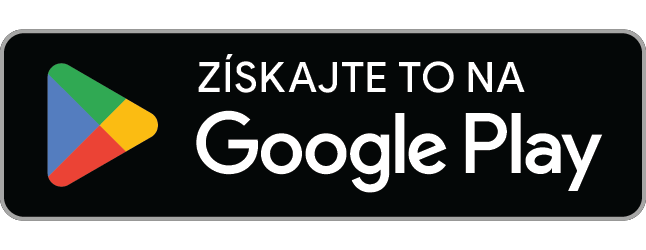
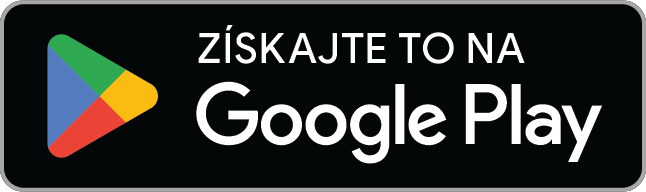
fix(badges): truly identical size, both smaller than primary CTA button
Root-caused the underlying asset problem instead of compensating for
it with mismatched container sizes: cropped all 10 locale variants of
the Google Play badge PNG to their real measured visible-content
bounds (removing a baked-in transparent margin - 41px on all sides for
en, 29px top/bottom for the other 9 - that Apple's badge never had).
Verified after cropping: visible content now fills the full canvas on
all 10, matching Apple's own zero-padding asset exactly.

With both assets now padding-free, both badges get identical explicit
dimensions (height:44, width:132 - Apple's exact native ratio, so its
required-unmodified artwork renders with zero distortion) on every
placement, all 10 locales. Verified this box is smaller than every
real measured primary CTA button on both pages (smallest real button:
147.6x50.5; badges: 132x44).

diff --git a/app/[locale]/for-users/page.tsx b/app/[locale]/for-users/page.tsx
@@ -160,7 +160,7 @@ export default async function ForUsersPage({ params }: { params: { locale: strin
               <img
                 src={`/badges/app-store-badge-${locale}.svg`}
                 alt={t("forUsers.appStoreAlt")}
-                style={{ height: 48, width: "auto" }}
+                style={{ height: 44, width: 132 }}
               />
             </a>
             <a
@@ -172,7 +172,7 @@ export default async function ForUsersPage({ params }: { params: { locale: strin
               <img
                 src={`/badges/google-play-badge-${locale}.png`}
                 alt={t("forUsers.googlePlayAlt")}
-                style={{ height: 71.43, width: 164.94 }}
+                style={{ height: 44, width: 132 }}
               />
             </a>
           </div>

diff --git a/app/[locale]/page.tsx b/app/[locale]/page.tsx
@@ -165,7 +165,7 @@ export default async function HomePage({ params }: { params: { locale: string } 
               <img
                 src={`/badges/app-store-badge-${locale}.svg`}
                 alt={t("home.appStoreAlt")}
-                style={{ height: 48, width: "auto" }}
+                style={{ height: 44, width: 132 }}
               />
             </a>
             <a
@@ -177,7 +177,7 @@ export default async function HomePage({ params }: { params: { locale: string } 
               <img
                 src={`/badges/google-play-badge-${locale}.png`}
                 alt={t("home.googlePlayAlt")}
-                style={{ height: 71.43, width: 164.94 }}
+                style={{ height: 44, width: 132 }}
               />
             </a>
           </div>
